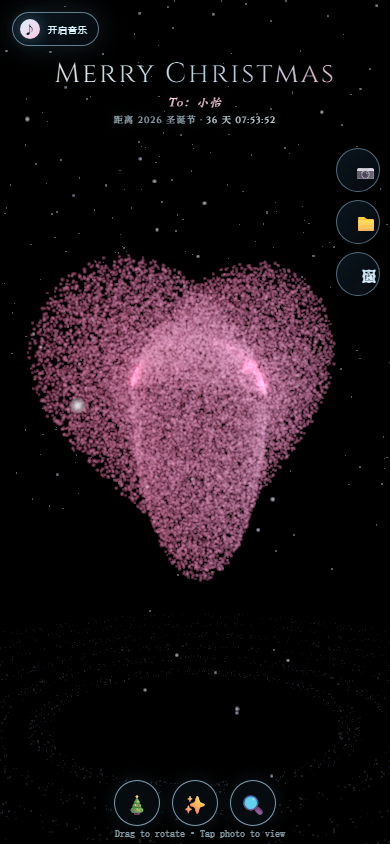
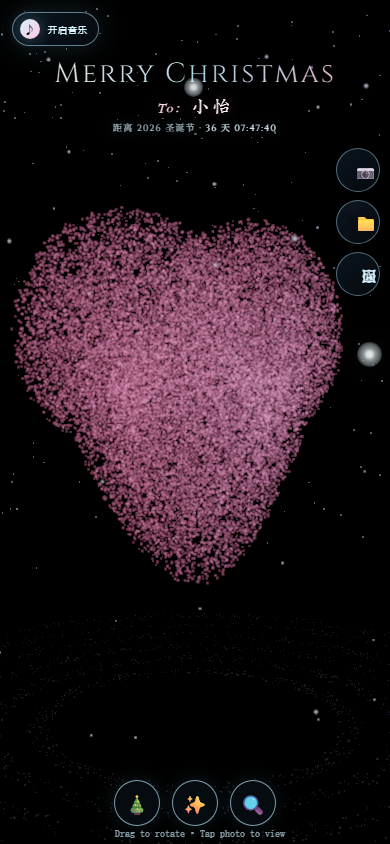
fix: smooth the heart seam and enlarge recipient name

diff --git a/christmas_tree_touch&gesture.html b/christmas_tree_touch&gesture.html
@@ -107,6 +107,16 @@
             pointer-events: none;
         }
 
+        .to-line .recipient-name {
+            display: inline-block;
+            margin-left: 0.16em;
+            color: #fff0f6;
+            font-size: 1.32em;
+            font-style: normal;
+            font-weight: 500;
+            letter-spacing: 0.12em;
+        }
+
         .countdown-line {
             margin: 5px 0 0;
             color: rgba(213, 240, 255, 0.76);
@@ -380,7 +390,11 @@
 
             .to-line {
                 margin-top: 6px;
-                font-size: 12px;
+                font-size: 13px;
+            }
+
+            .to-line .recipient-name {
+                font-size: 1.45em;
             }
 
             .countdown-line {
@@ -486,7 +500,7 @@
 
     <div id="ui-layer">
         <h1>Merry Christmas</h1>
-        <p class="to-line">To：小怡</p>
+        <p class="to-line">To：<span class="recipient-name">小怡</span></p>
         <p class="countdown-line" id="countdown-line">距离圣诞节 · <strong>计算中</strong></p>
 
         <div class="controls-wrapper">
@@ -1000,35 +1014,36 @@
             const sourceCenterY = 6.1;
 
             function sampleHeartVolume() {
-                const t = Math.random() * Math.PI * 2;
-                const radial = Math.sqrt(Math.random());
+                let hx;
+                let hy;
+                let inside;
+                do {
+                    hx = Math.random() * 2.2 - 1.1;
+                    hy = Math.random() * 2.08 - 1.04;
+                    const leftLobe =
+                        Math.pow((hx + 0.46) / 0.63, 2) +
+                            Math.pow((hy - 0.34) / 0.59, 2) <=
+                        1;
+                    const rightLobe =
+                        Math.pow((hx - 0.46) / 0.63, 2) +
+                            Math.pow((hy - 0.34) / 0.59, 2) <=
+                        1;
+                    const bodyProgress = (hy + 1.02) / 1.38;
+                    const body =
+                        bodyProgress >= 0 &&
+                        bodyProgress <= 1 &&
+                        Math.abs(hx) <=
+                            Math.pow(Math.max(0, bodyProgress), 0.62);
+                    inside = leftLobe || rightLobe || body;
+                } while (!inside);
+
                 const depth = Math.random() * 2 - 1;
                 const layerScale = Math.sqrt(Math.max(0.02, 1 - depth * depth));
-                const hx =
-                    Math.pow(Math.sin(t), 3) *
-                    radial *
-                    layerScale;
-                const hy =
-                    (13 * Math.cos(t) -
-                        5 * Math.cos(2 * t) -
-                        2 * Math.cos(3 * t) -
-                        Math.cos(4 * t)) /
-                    17 *
-                    radial *
-                    layerScale;
-
-                if (Math.random() < 0.02) {
-                    const bridgeAngle = Math.random() * Math.PI * 2;
-                    const bridgeRadius = Math.sqrt(Math.random());
-                    return [
-                        Math.cos(bridgeAngle) * bridgeRadius * 3.4,
-                        4.5 + Math.sin(bridgeAngle) * bridgeRadius * 1.6,
-                        (Math.random() * 2 - 1) *
-                            2.3 *
-                            Math.sqrt(Math.max(0.04, 1 - bridgeRadius * bridgeRadius))
-                    ];
-                }
-                return [hx * 8.9, 2.7 + hy * 8.7, depth * 4.2];
+                return [
+                    hx * layerScale * 8.9,
+                    2.7 + hy * layerScale * 8.7,
+                    depth * 4.2
+                ];
             }
 
             function addPoint(x, y, z, r, g, b, size) {
